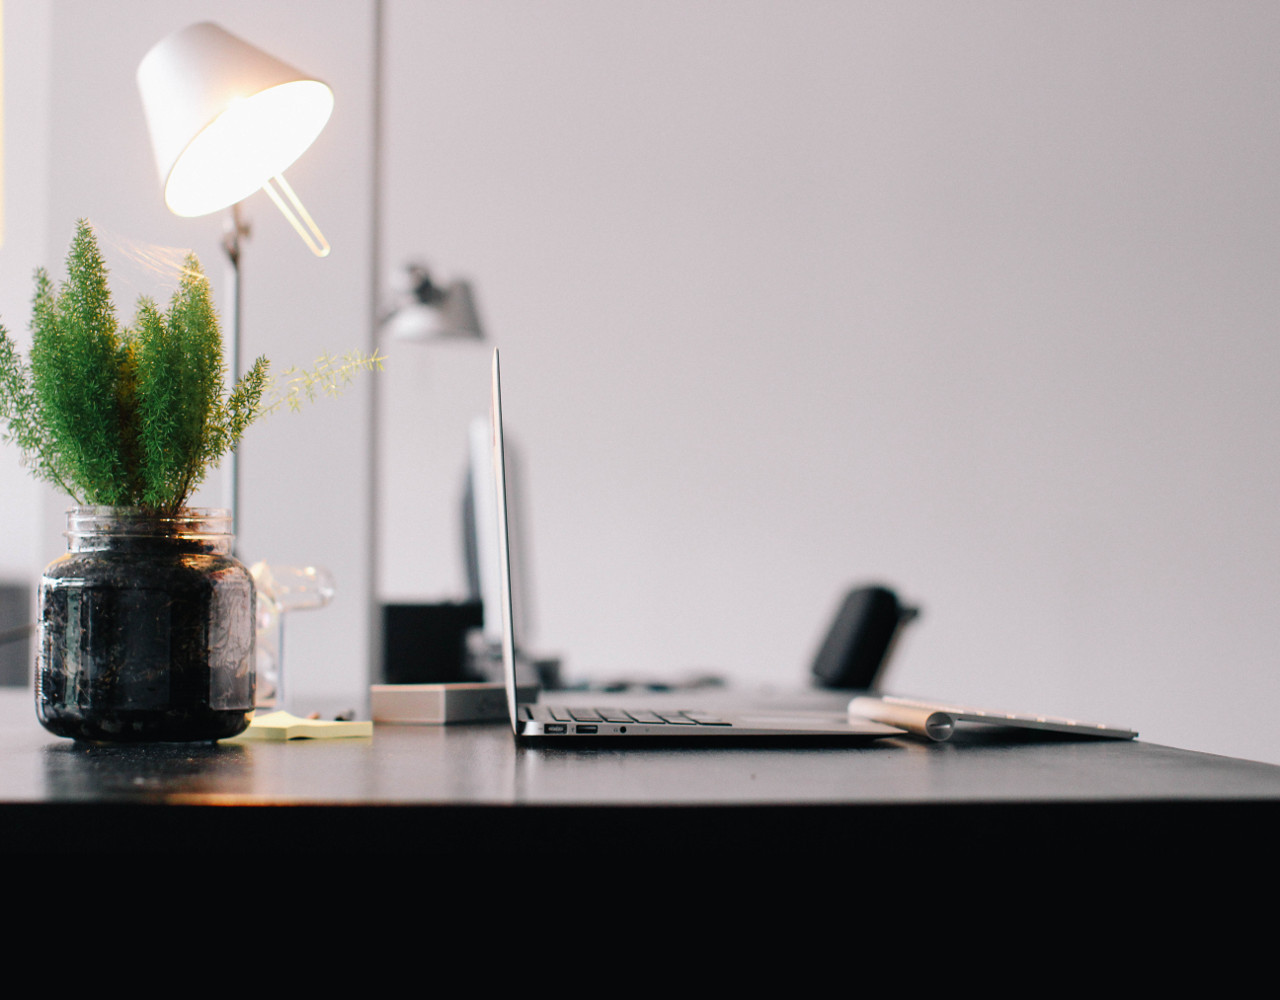
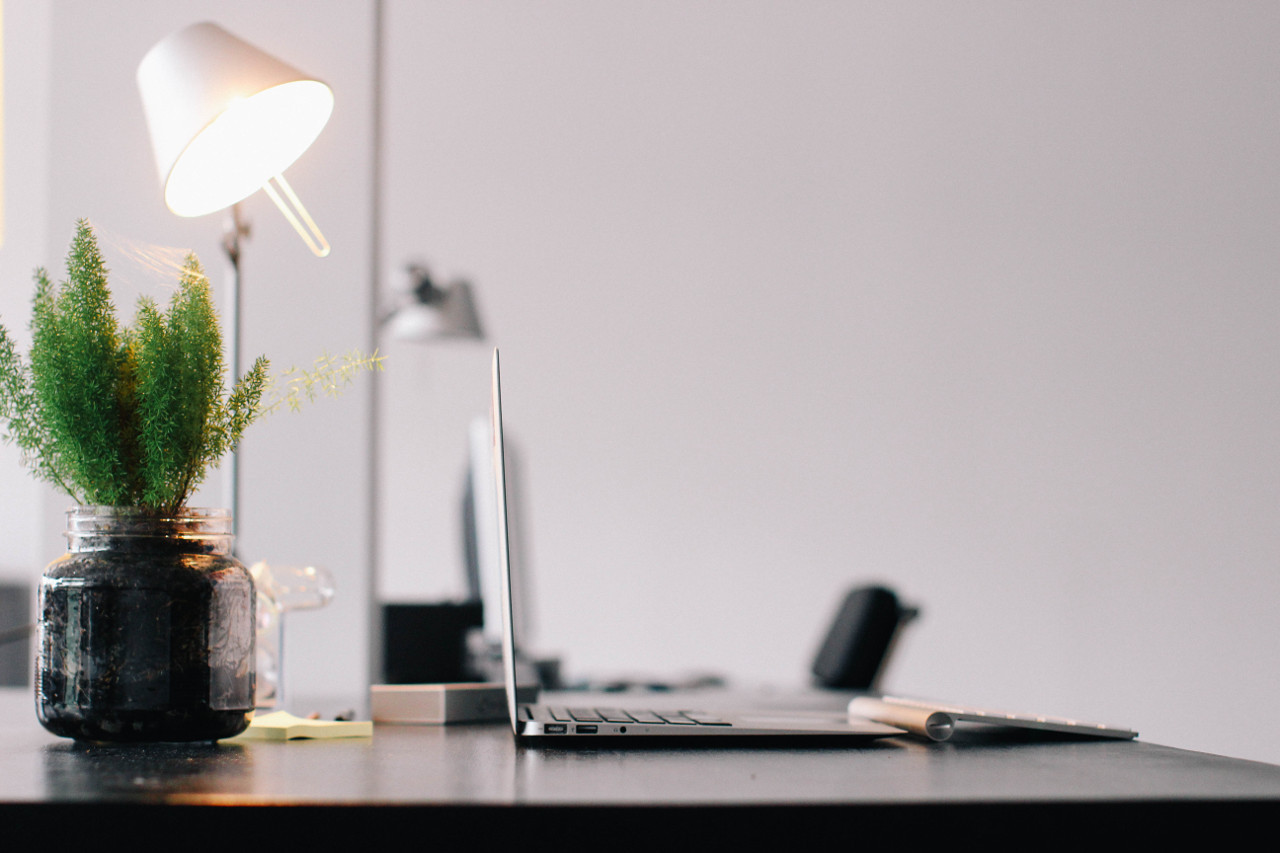
Adjusted the OpenGraph image for the main page header.

diff --git a/_includes/social-tags.html b/_includes/social-tags.html
@@ -23,6 +23,8 @@
   <meta content="{{ site.url }}/static/{{ page.header-img }}" property="og:image">
 {% else %}
   <meta content="{{ site.url }}/static/img/header.jpg" property="og:image">
+  <meta content="1280" property="og:image:width">
+  <meta content="853" property="og:image:height">
 {% endif %}
 <meta name="twitter:card" content="summary">
 <meta name="twitter:site" content="@seanballais">
